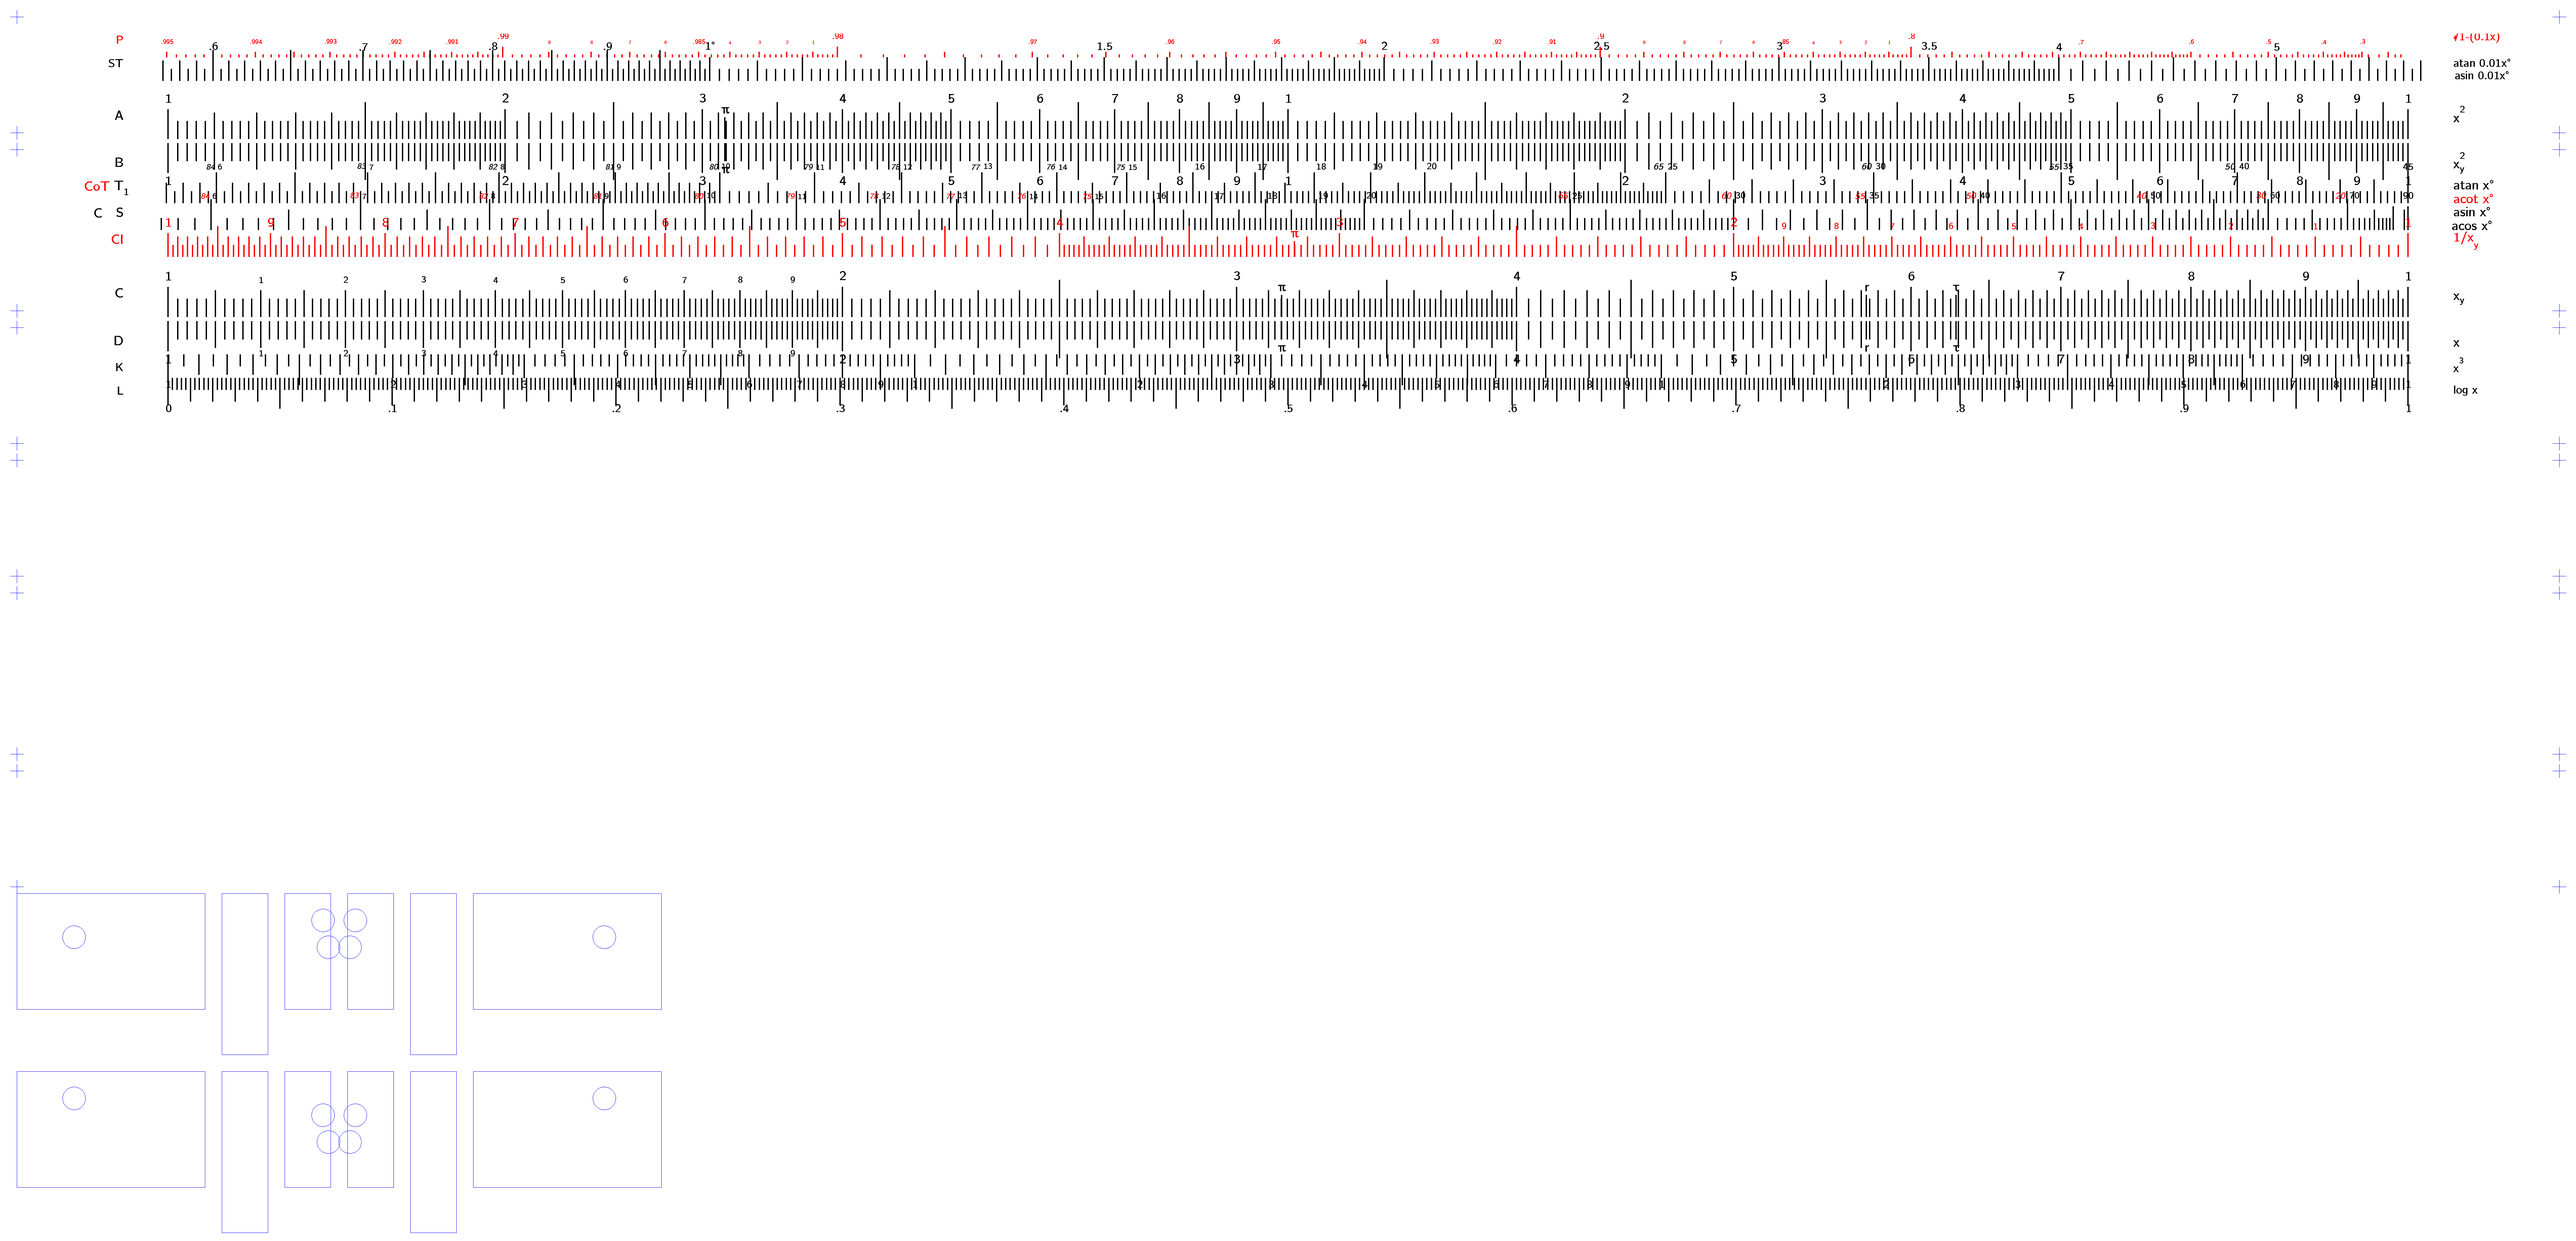
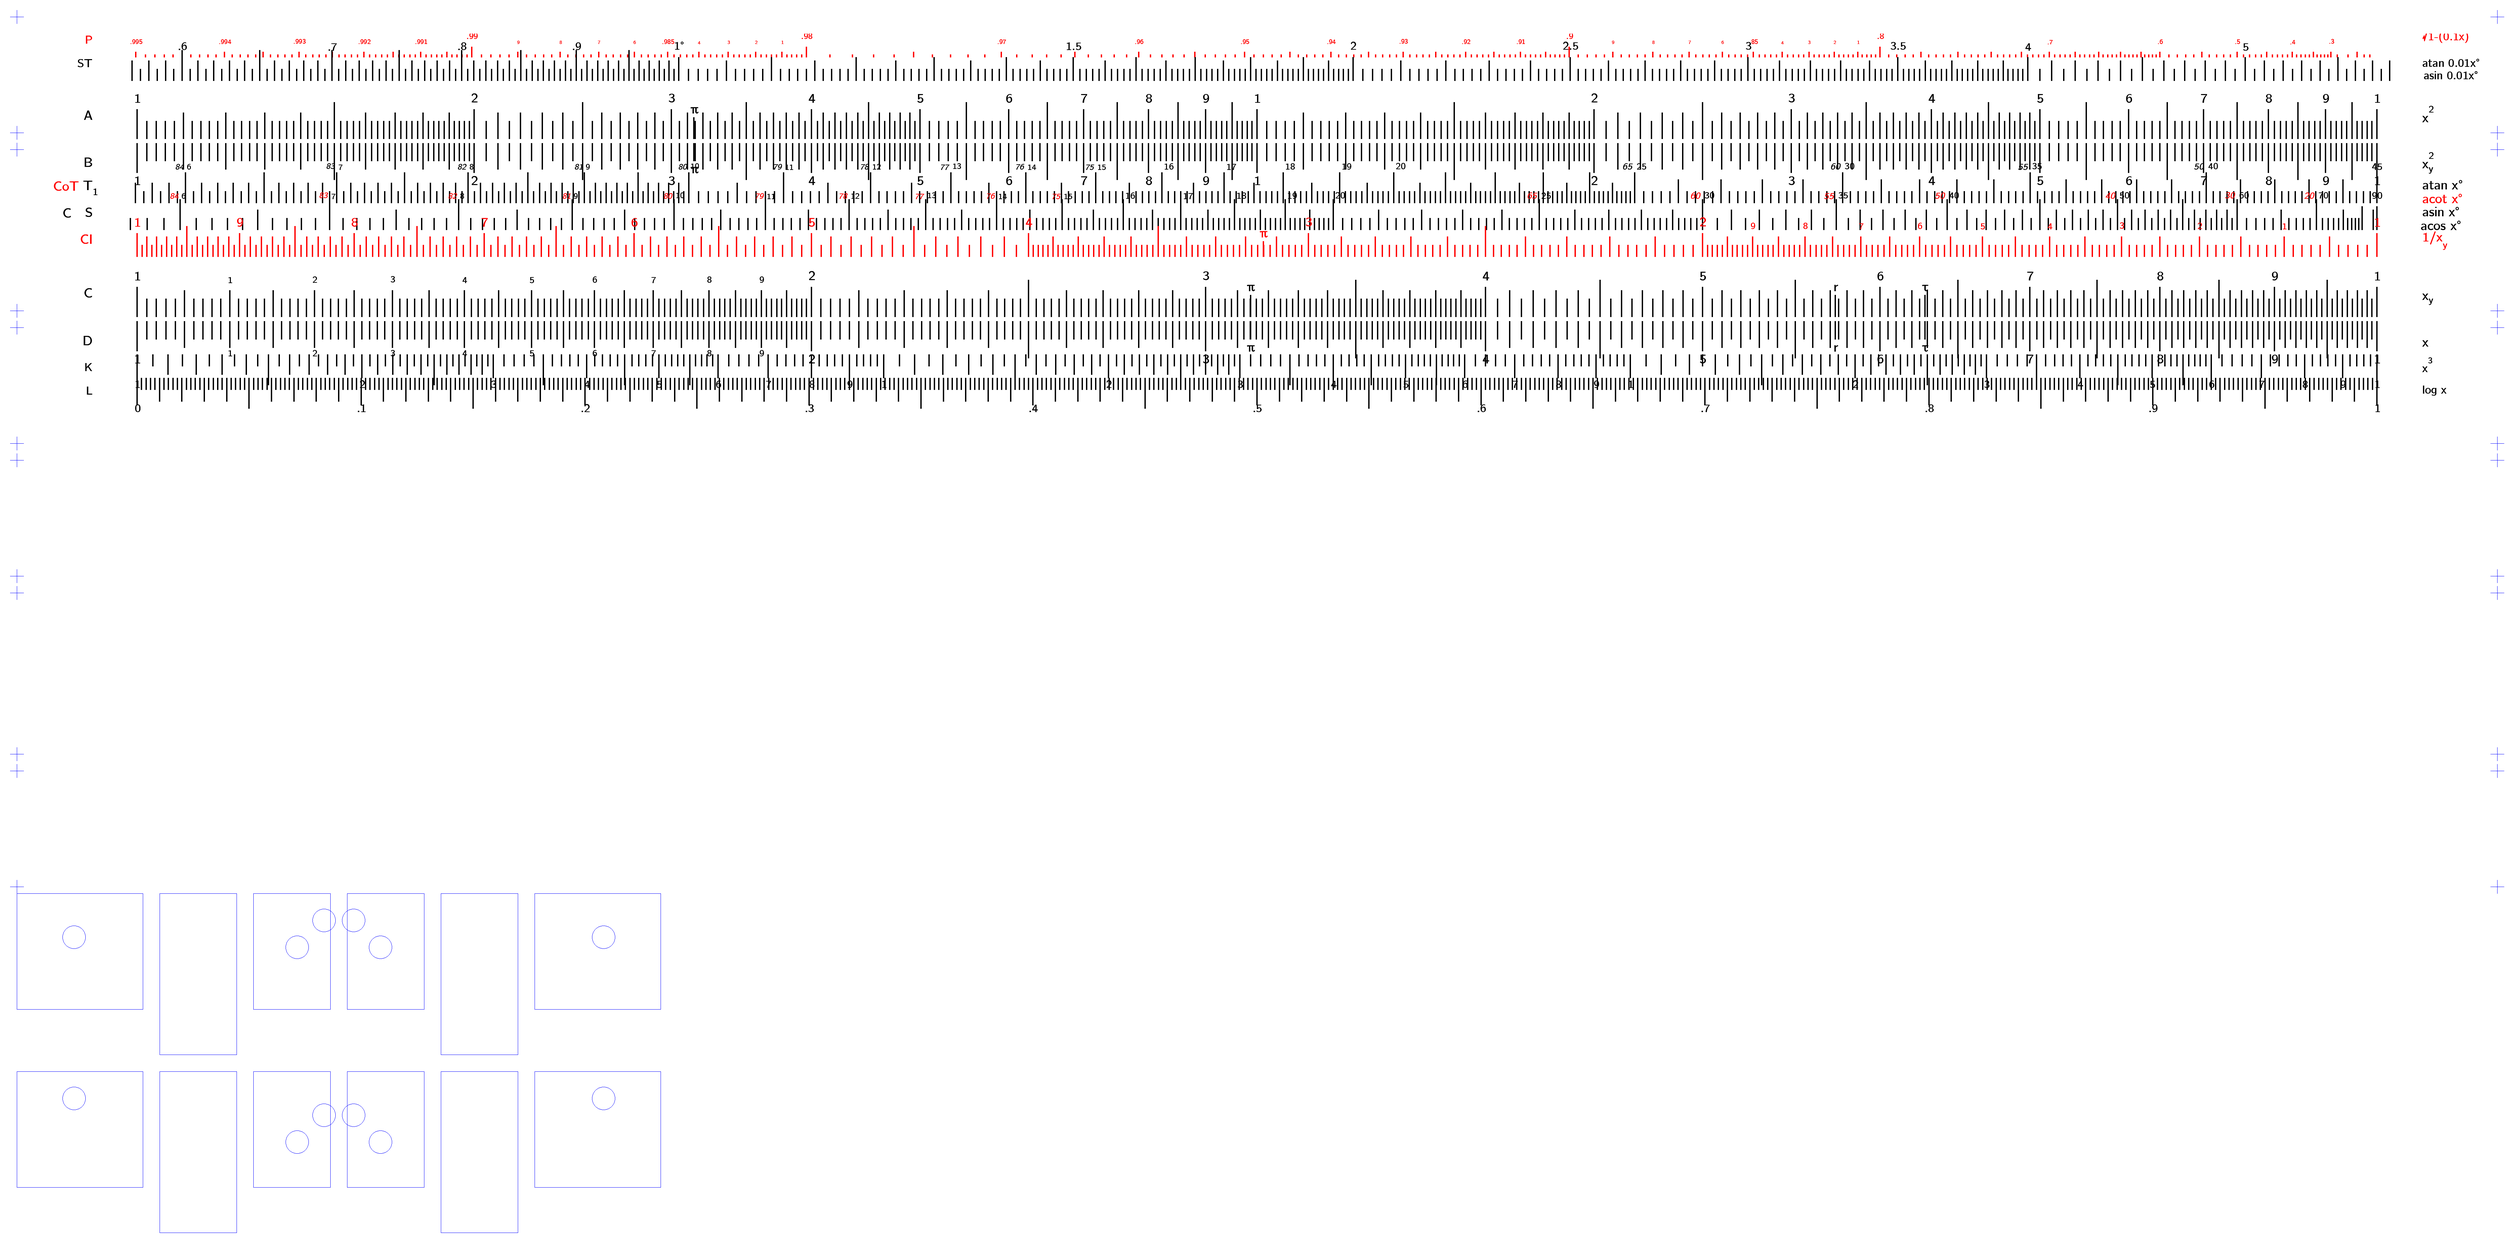
Magic number cleanup (seemingly correct/robust) in render_stickerprint_mode for the cuts.

Changed region(s): [[0.0311, 0.0934, 0.9654, 0.3424], [0.4048, 0.0311, 0.9965, 0.0622], [0.0623, 0.0311, 0.3426, 0.0622]]

diff --git a/SlideRule.py b/SlideRule.py
@@ -1837,7 +1837,7 @@ def render_stickerprint_mode(m: Model, sliderule_img: Image.Image):
     o_a = 50  # overhang amount
     ext = 20  # extension amount
     geom = m.geometry
-    x_off = (geom.side_w - geom.SL - 900) // 2
+    x_off = (geom.side_w - geom.SL - geom.brace_w - 420) // 2
     scale_w = geom.side_w - x_off * 2
     scale_h = geom.SH
     geom_s = replace(geom, side_w=scale_w, oX=0, oY=0)
@@ -1867,7 +1867,7 @@ def render_stickerprint_mode(m: Model, sliderule_img: Image.Image):
         y += o_a + (o_a if front else 0)
     # Side stickers:
     y_b = y + 20
-    box_w = 510
+    box_w = geom.brace_w + 30
     boxes = [
         (o_a,                     y_b, box_w + o_a, stator_h + o_a),
         (box_w + 3 * o_a,         y_b, x_off + o_a, slide_h),
